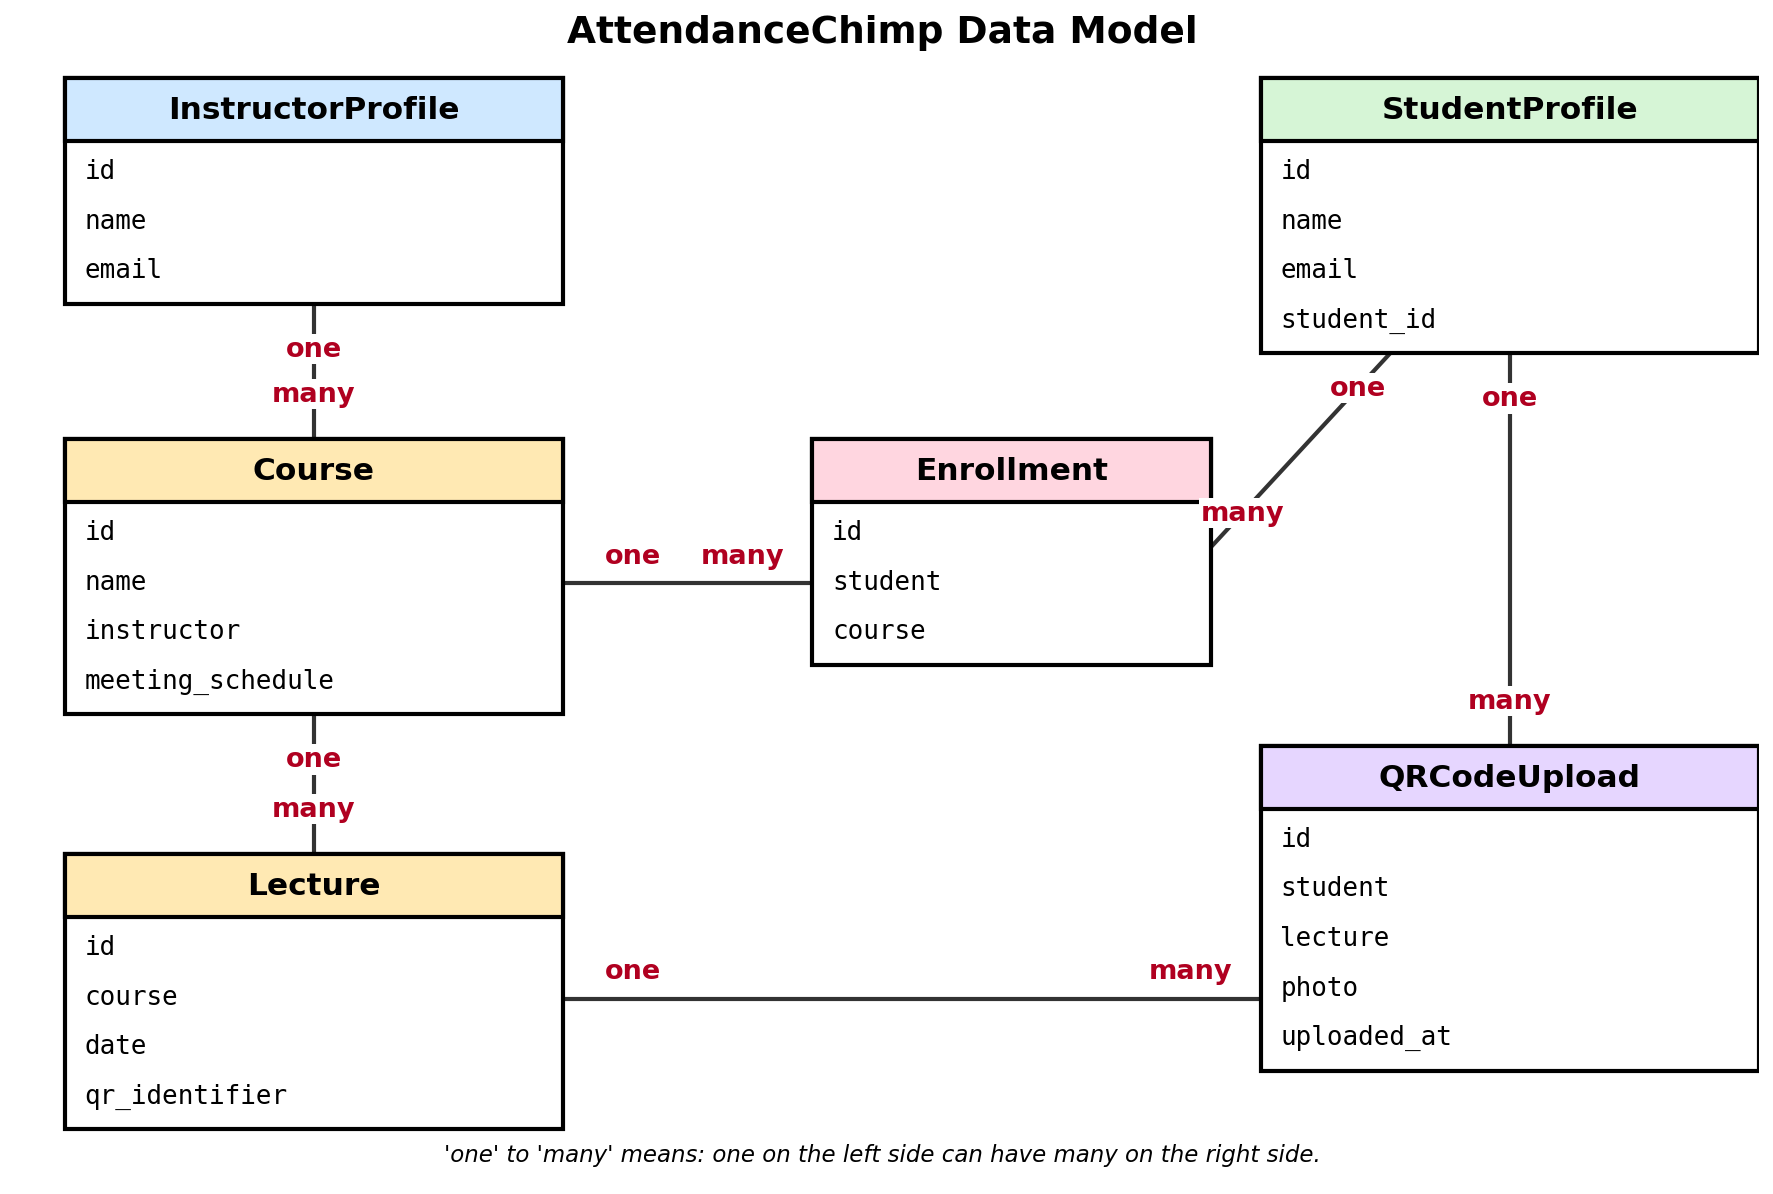
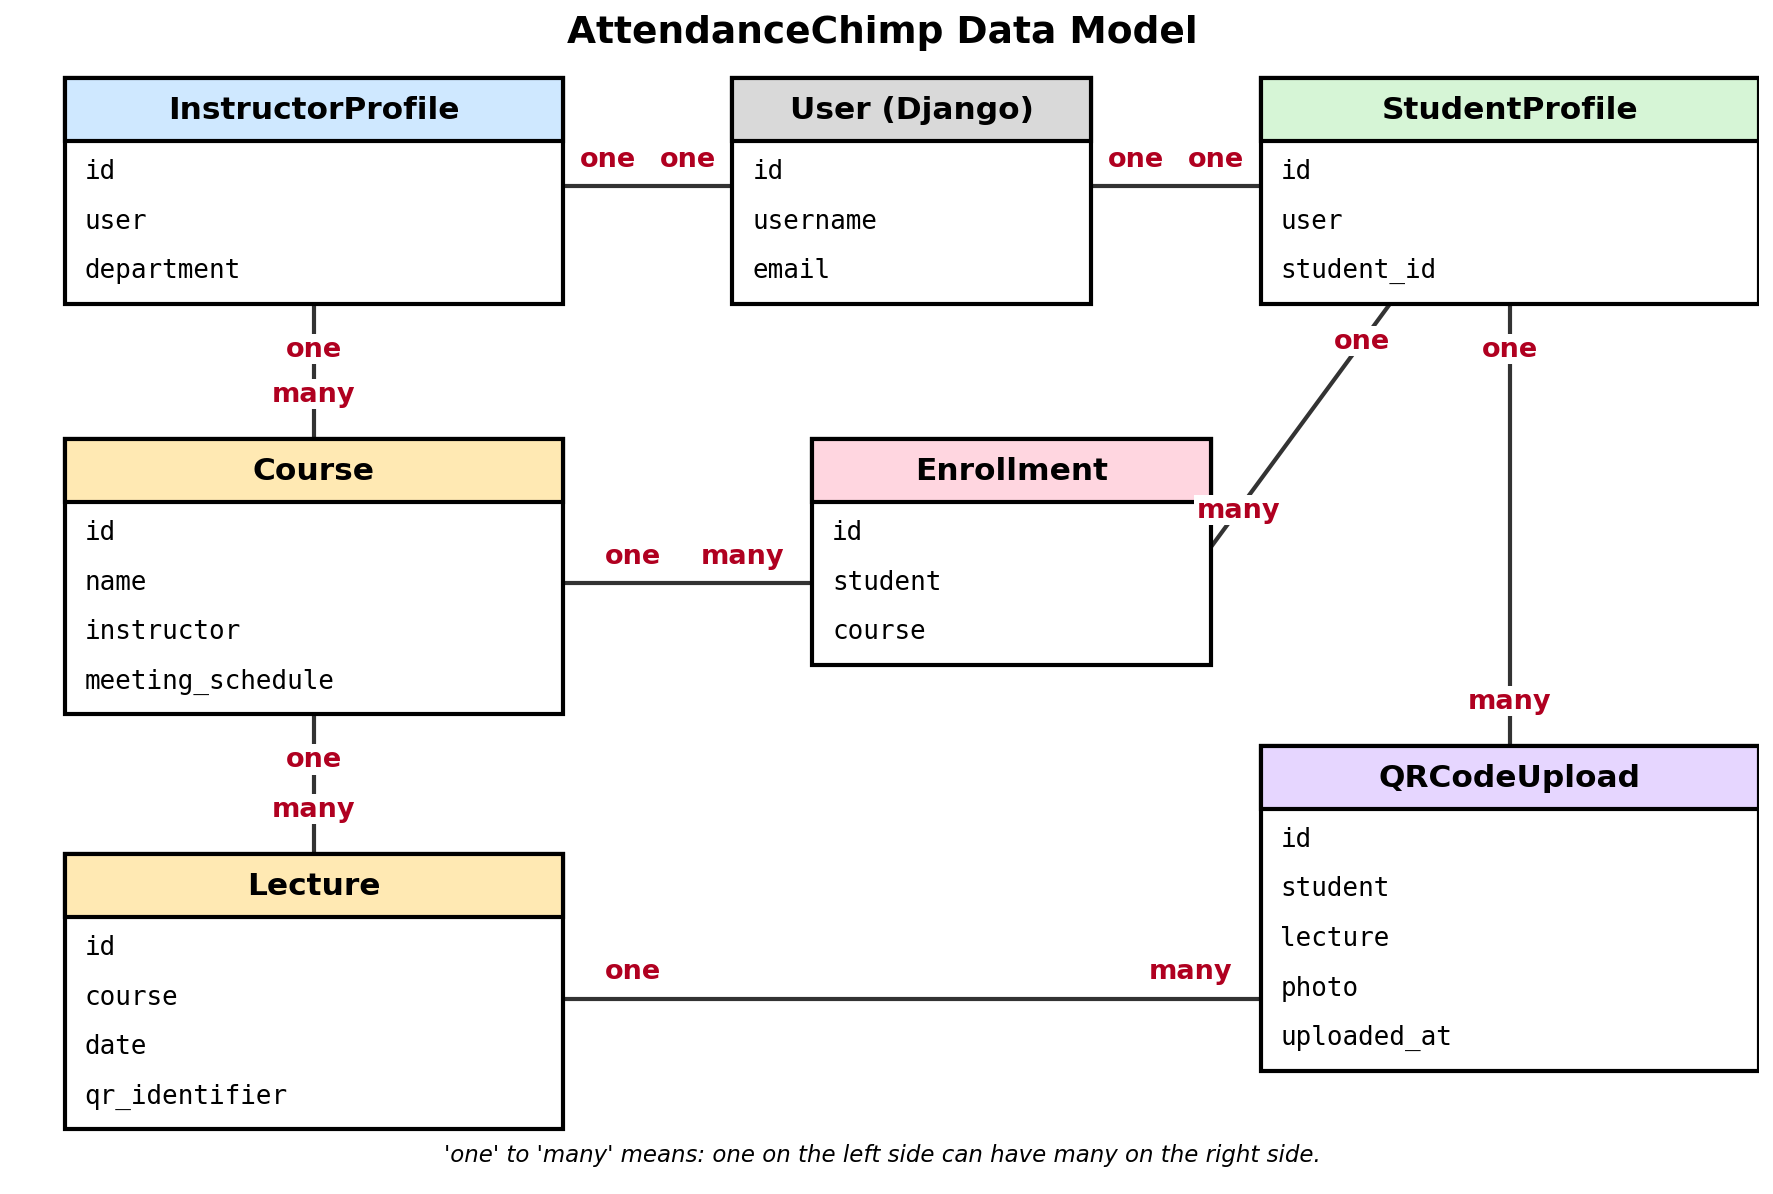
HW3: link profiles to User, move comparison to top level

diff --git a/attendancechimp/app/models.py b/attendancechimp/app/models.py
@@ -3,8 +3,8 @@ AttendanceChimp data model (HW3).
 
 Six tables, matching app/docs/my-data-model.png:
 
-    InstructorProfile  - the teachers
-    StudentProfile     - the students
+    InstructorProfile  - the teachers (linked to a Django login account)
+    StudentProfile     - the students (linked to a Django login account)
     Course             - a class, taught by exactly one instructor
     Enrollment         - which student is in which course (many-to-many link)
     Lecture            - one class meeting, belongs to one course
@@ -12,10 +12,16 @@ Six tables, matching app/docs/my-data-model.png:
 
 Why separate Instructor and Student tables instead of one Users table?
 Students and instructors store different information (students have a
-student_id, instructors don't), and a separate table means the database
-itself stops a student from being set as a course's instructor.
+student_id, instructors have a department), and a separate table means the
+database itself stops a student from being set as a course's instructor.
+
+Both profiles are linked one-to-one to Django's built-in User model, so every
+student and instructor gets a login account (username, password, name, email)
+for free instead of us rebuilding authentication.
 
 Relationships (all made with foreign keys):
+    InstructorProfile.user -> User            (one-to-one)
+    StudentProfile.user    -> User            (one-to-one)
     Course.instructor  -> InstructorProfile   (one instructor, many courses)
     Enrollment.student -> StudentProfile      (one student, many enrollments)
     Enrollment.course  -> Course              (one course, many enrollments)
@@ -26,6 +32,7 @@ Relationships (all made with foreign keys):
 
 import uuid
 
+from django.contrib.auth.models import User
 from django.db import models
 
 
@@ -33,32 +40,38 @@ class InstructorProfile(models.Model):
     """A teacher who can be assigned to courses.
 
     Fields:
-        name:  the instructor's full name.
-        email: the instructor's email (unique, so no duplicates).
+        user:       the teacher's Django login account (one-to-one). Name and
+                    email live on the User. Deleting the User deletes the
+                    profile (CASCADE).
+        department: the teacher's department (optional).
     """
 
-    name = models.CharField(max_length=100)
-    email = models.EmailField(unique=True)
+    user = models.OneToOneField(
+        User, on_delete=models.CASCADE, related_name="instructor_profile"
+    )
+    department = models.CharField(max_length=100, blank=True)
 
     def __str__(self):
-        return self.name
+        return self.user.get_full_name() or self.user.username
 
 
 class StudentProfile(models.Model):
     """A student who can enroll in courses and upload QR code photos.
 
     Fields:
-        name:       the student's full name.
-        email:      the student's email (unique).
+        user:       the student's Django login account (one-to-one). Name and
+                    email live on the User. Deleting the User deletes the
+                    profile (CASCADE).
         student_id: the school ID number (unique), used to tell students apart.
     """
 
-    name = models.CharField(max_length=100)
-    email = models.EmailField(unique=True)
+    user = models.OneToOneField(
+        User, on_delete=models.CASCADE, related_name="student_profile"
+    )
     student_id = models.CharField(max_length=20, unique=True)
 
     def __str__(self):
-        return f"{self.name} ({self.student_id})"
+        return f"{self.user.get_full_name() or self.user.username} ({self.student_id})"
 
 
 class Course(models.Model):
@@ -108,7 +121,7 @@ class Enrollment(models.Model):
         ]
 
     def __str__(self):
-        return f"{self.student.name} in {self.course.name}"
+        return f"{self.student} in {self.course.name}"
 
 
 class Lecture(models.Model):
@@ -163,4 +176,4 @@ class QRCodeUpload(models.Model):
     uploaded_at = models.DateTimeField(auto_now_add=True)
 
     def __str__(self):
-        return f"Upload by {self.student.name} at {self.uploaded_at}"
+        return f"Upload by {self.student} at {self.uploaded_at}"

diff --git a/attendancechimp/app/migrations/0001_initial.py b/attendancechimp/app/migrations/0001_initial.py
@@ -1,7 +1,8 @@
-# Generated by Django 6.1.2 on 2026-10-22 19:49
+# Generated by Django 6.1.2 on 2026-10-22 20:10
 
 import django.db.models.deletion
 import uuid
+from django.conf import settings
 from django.db import migrations, models
 
 
@@ -10,6 +11,7 @@ class Migration(migrations.Migration):
     initial = True
 
     dependencies = [
+        migrations.swappable_dependency(settings.AUTH_USER_MODEL),
     ]
 
     operations = [
@@ -17,17 +19,8 @@ class Migration(migrations.Migration):
             name='InstructorProfile',
             fields=[
                 ('id', models.BigAutoField(auto_created=True, primary_key=True, serialize=False, verbose_name='ID')),
-                ('name', models.CharField(max_length=100)),
-                ('email', models.EmailField(max_length=254, unique=True)),
-            ],
-        ),
-        migrations.CreateModel(
-            name='StudentProfile',
-            fields=[
-                ('id', models.BigAutoField(auto_created=True, primary_key=True, serialize=False, verbose_name='ID')),
-                ('name', models.CharField(max_length=100)),
-                ('email', models.EmailField(max_length=254, unique=True)),
-                ('student_id', models.CharField(max_length=20, unique=True)),
+                ('department', models.CharField(blank=True, max_length=100)),
+                ('user', models.OneToOneField(on_delete=django.db.models.deletion.CASCADE, related_name='instructor_profile', to=settings.AUTH_USER_MODEL)),
             ],
         ),
         migrations.CreateModel(
@@ -46,6 +39,14 @@ class Migration(migrations.Migration):
                 ('date', models.DateField()),
                 ('qr_identifier', models.UUIDField(default=uuid.uuid4, editable=False, unique=True)),
                 ('course', models.ForeignKey(on_delete=django.db.models.deletion.CASCADE, related_name='lectures', to='app.course')),
+            ],
+        ),
+        migrations.CreateModel(
+            name='StudentProfile',
+            fields=[
+                ('id', models.BigAutoField(auto_created=True, primary_key=True, serialize=False, verbose_name='ID')),
+                ('student_id', models.CharField(max_length=20, unique=True)),
+                ('user', models.OneToOneField(on_delete=django.db.models.deletion.CASCADE, related_name='student_profile', to=settings.AUTH_USER_MODEL)),
             ],
         ),
         migrations.CreateModel(
